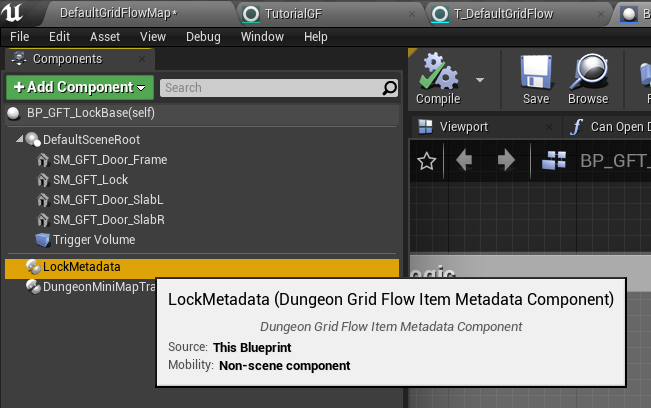
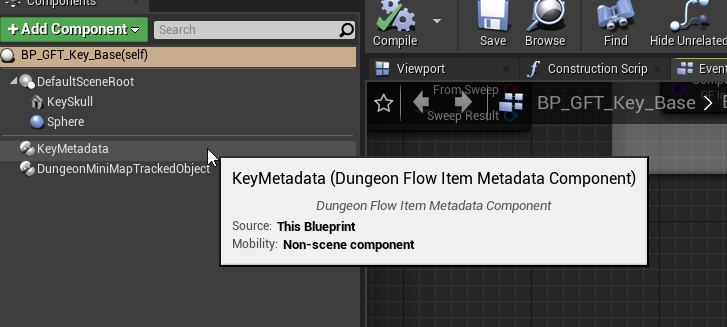
Changed the Grid Flow item metadata component name

diff --git a/source/builder_grid_flow.rst b/source/builder_grid_flow.rst
@@ -929,7 +929,7 @@ This will drop any tiles that are 5 tiles away from the nearest layout tile
 Key Lock System
 ---------------
 
-The  Key and Lock actors that were spawned by the theme engine would have the `Item Metadata` filled up by Dungeon Architect, provided the actor has the ``Dungeon Grid Flow Item Metadata`` component attached to it
+The  Key and Lock actors that were spawned by the theme engine would have the `Item Metadata` filled up by Dungeon Architect, provided the actor has the ``Dungeon Flow Item Metadata`` component attached to it
 
 In the sample, the Key and Lock blueprints has the above component added to it
 
